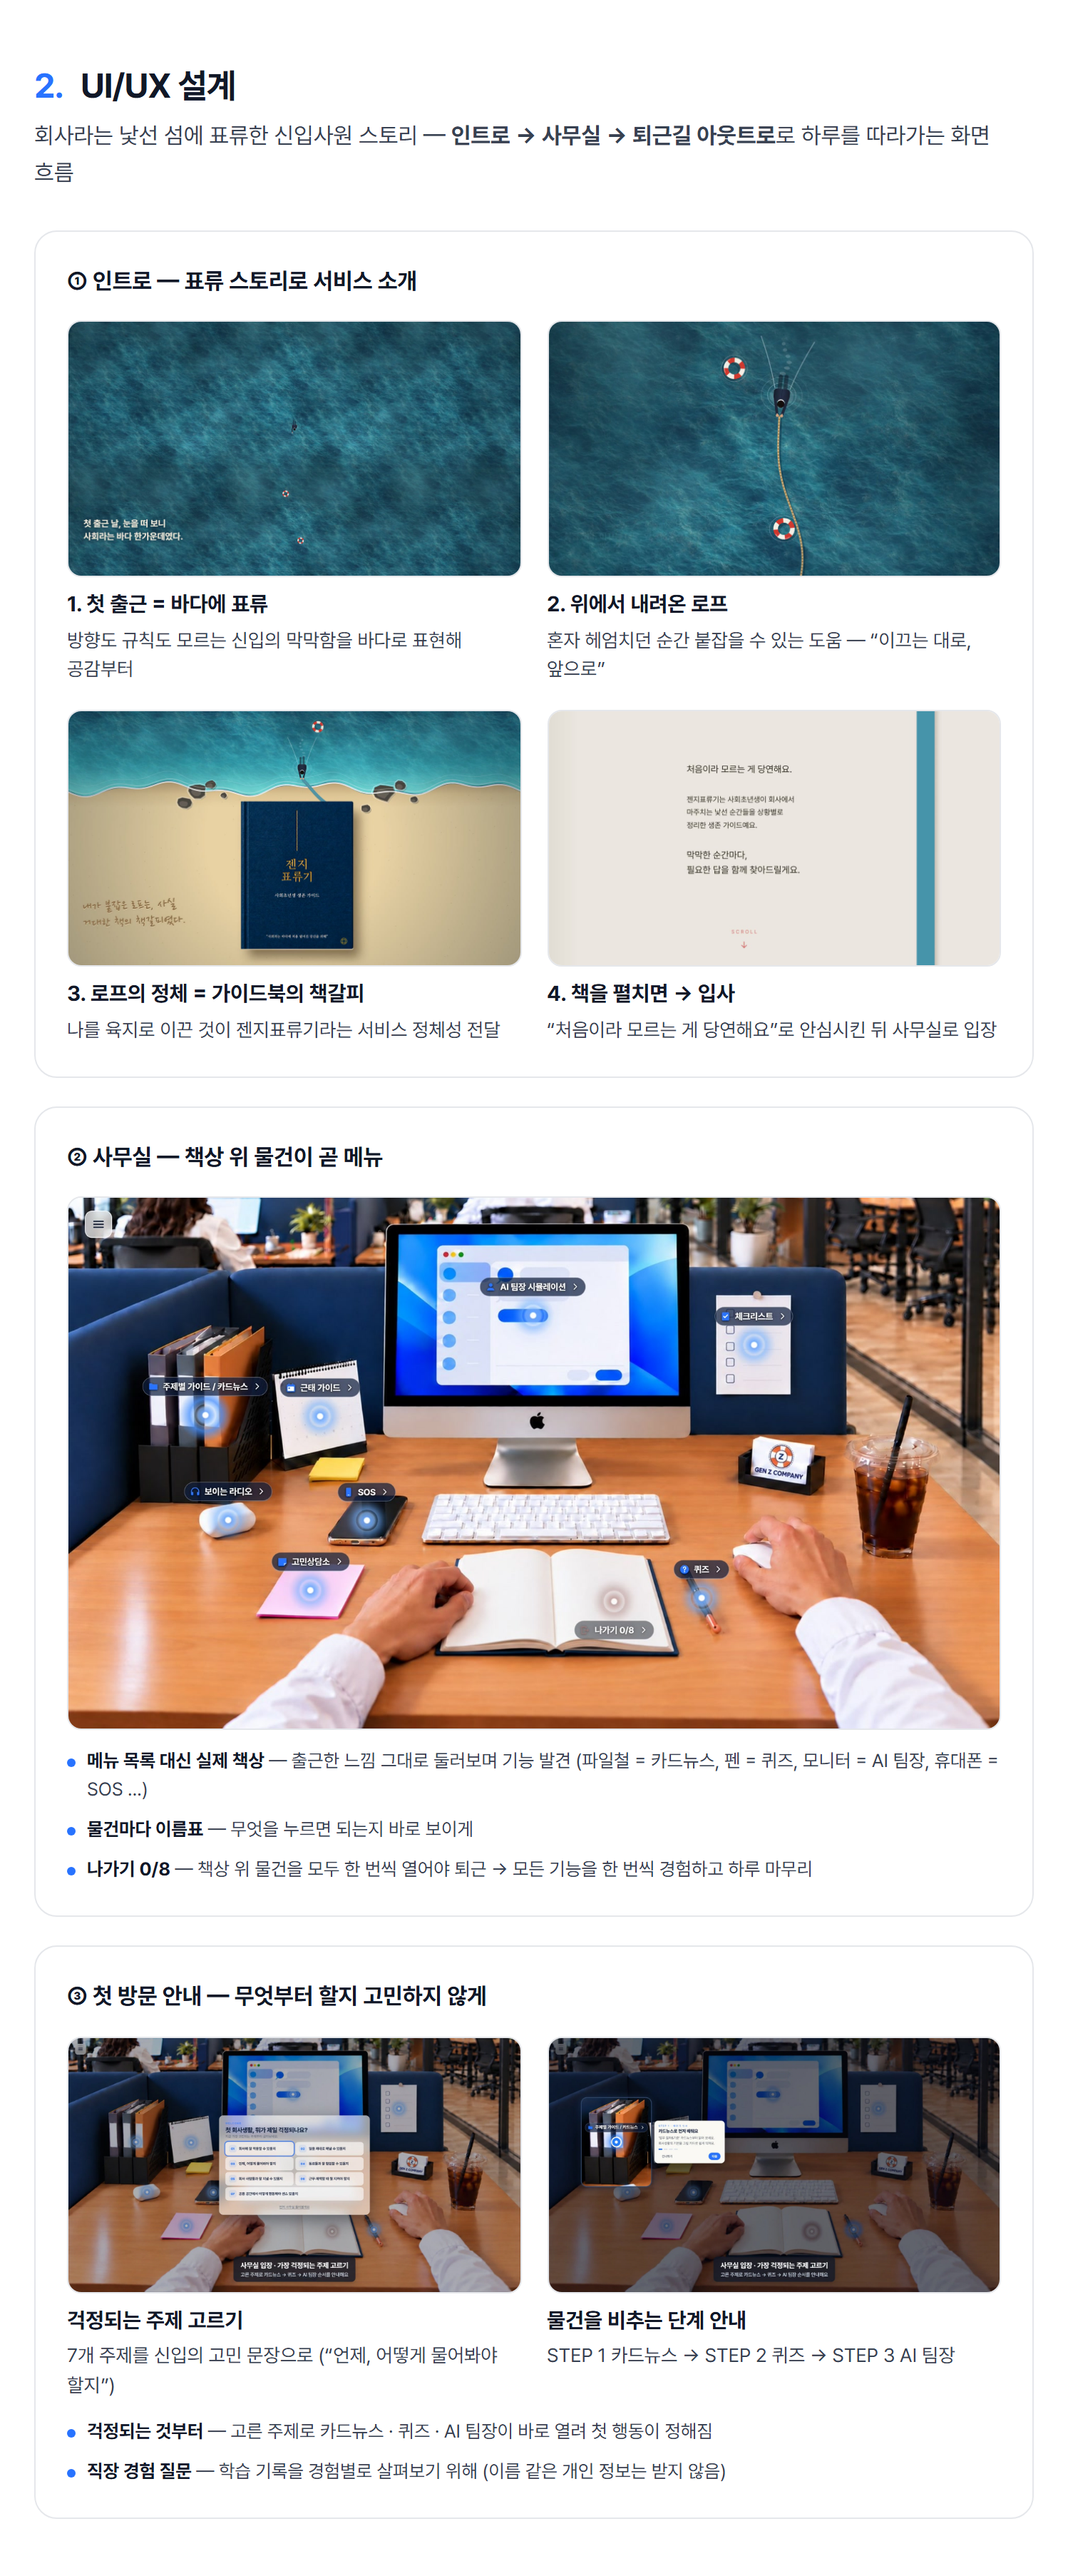
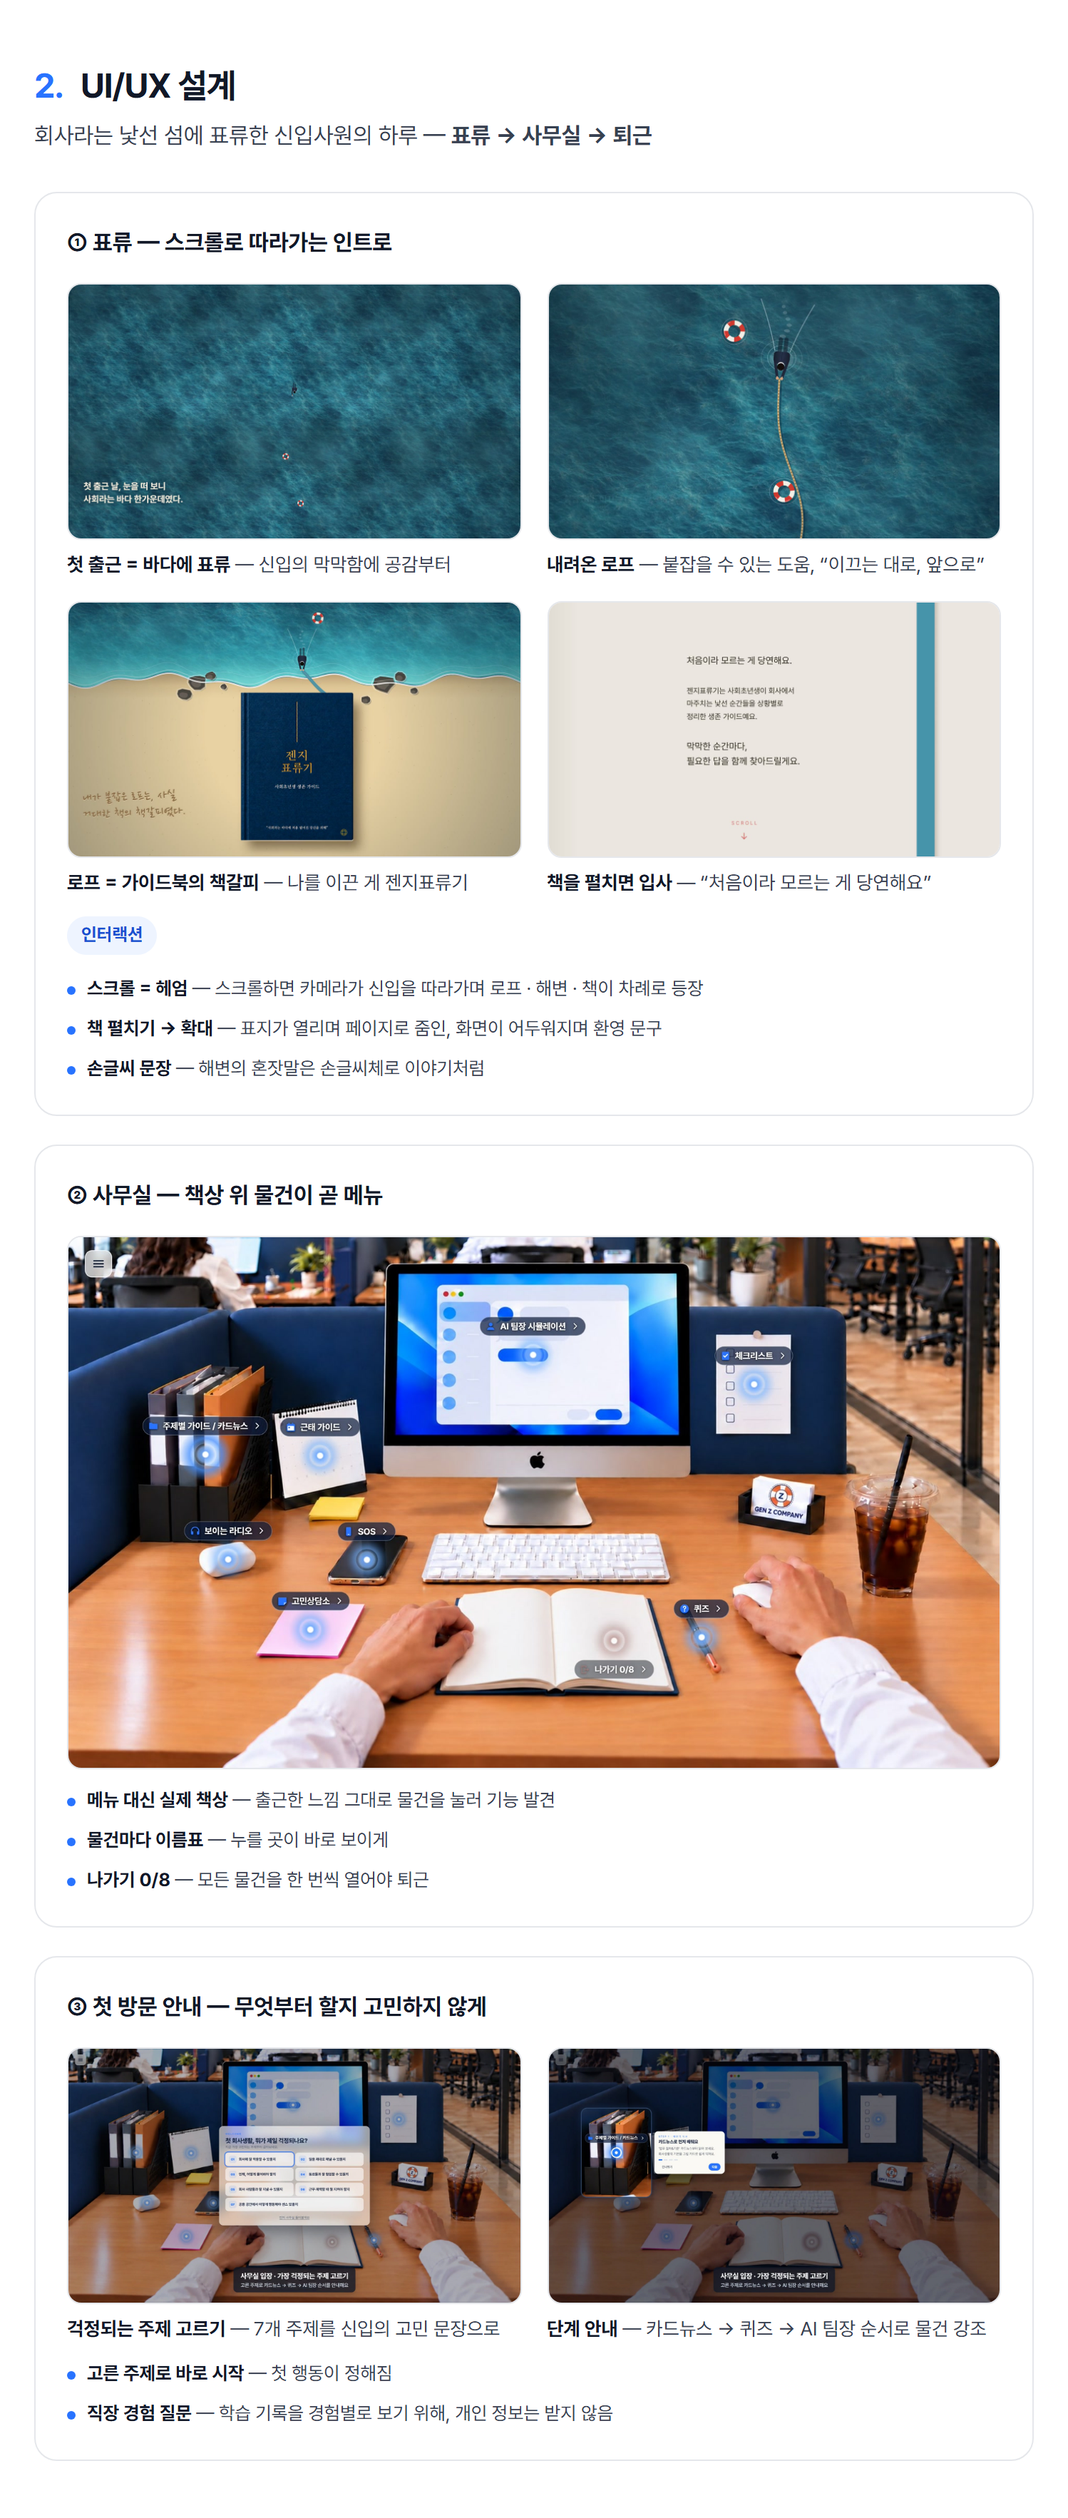
UI/UX: 표류 → 사무실 → 퇴근 구성, 인트로 · 아웃트로 인터랙션 추가, 문장 요약

diff --git a/README.md b/README.md
@@ -19,7 +19,7 @@
 
 <table>
   <tr><th align="left" width="90">기획</th><td><a href="#s1">1. 기획 및 비전</a> — 문제 정의 · 개발 타임라인</td></tr>
-  <tr><th align="left">내 작업</th><td><a href="#s2">2. UI/UX 설계 (인트로 · 사무실 · 아웃트로)</a> · <a href="#s3">3. SOS 상담</a> · <a href="#s4">4. AI 팀장 시뮬레이션</a></td></tr>
+  <tr><th align="left">내 작업</th><td><a href="#s2">2. UI/UX 설계 (표류 → 사무실 → 퇴근)</a> · <a href="#s3">3. SOS 상담</a> · <a href="#s4">4. AI 팀장 시뮬레이션</a></td></tr>
   <tr><th align="left">설계</th><td><a href="#s5">5. 서비스 설계</a> · <a href="#s6">6. 작동 구조</a> · <a href="#s7">7. 데이터베이스(ERD)</a></td></tr>
   <tr><th align="left">개발</th><td><a href="#s8">8. 기술 스택 · 의사결정</a> · <a href="#s9">9. 프로젝트 구조</a></td></tr>
   <tr><th align="left">검증</th><td><a href="#s10">10. 피드백 반영</a> · <a href="#s11">11. 사용자 테스트 결과</a></td></tr>
@@ -38,13 +38,13 @@
 
 <a name="s2"></a>
 
-![2. UI/UX 설계 — 인트로 · 사무실 · 첫 방문 안내](docs/sections/ux.png)
+![2. UI/UX 설계 — 표류 · 사무실 · 퇴근](docs/sections/ux.png)
 
-**④ 퇴근길 아웃트로** — 인사 → 오늘의 성장 기록 → 출발점 기사 다시 보기 → 책이 덮이며 “오늘도 무사히 퇴근!”
+**④ 퇴근 — 스크롤 아웃트로** · 인사 → 오늘의 성장 기록 → 출발점 기사 → 책이 덮이며 “오늘도 무사히 퇴근!”
 
 <img src="docs/screens/outro.gif" width="100%" alt="퇴근길 아웃트로 전체 영상">
 
-![오늘의 성장 기록](docs/sections/uxout.png)
+![퇴근길 인터랙션 · 오늘의 성장 기록](docs/sections/uxout.png)
 
 ---
 
